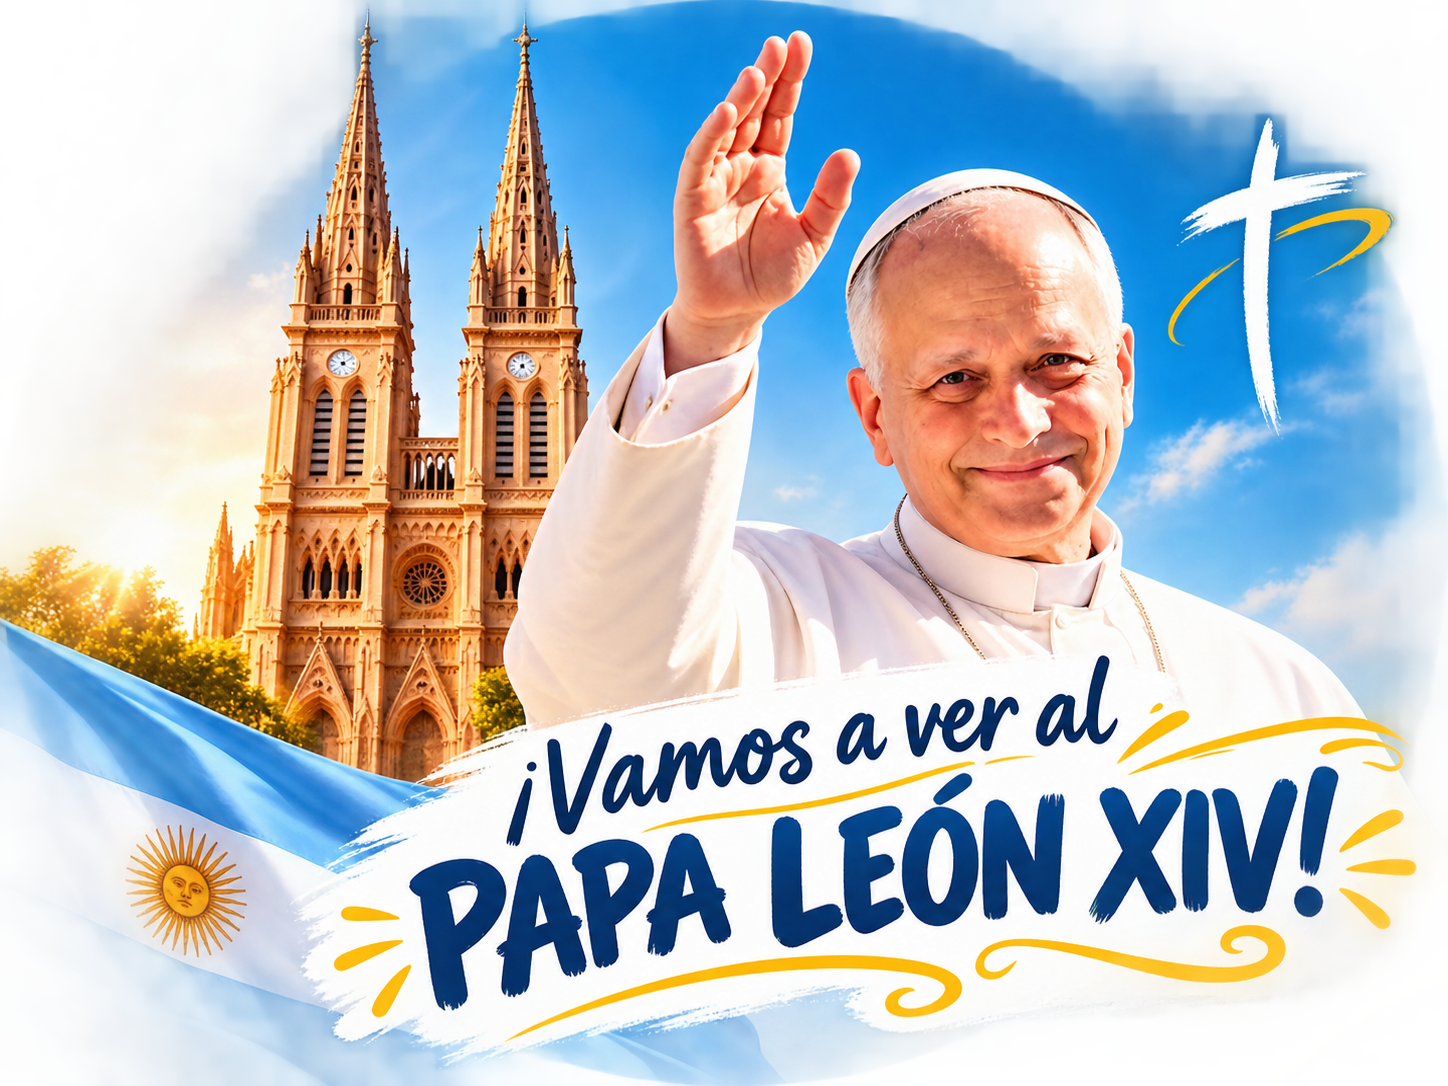
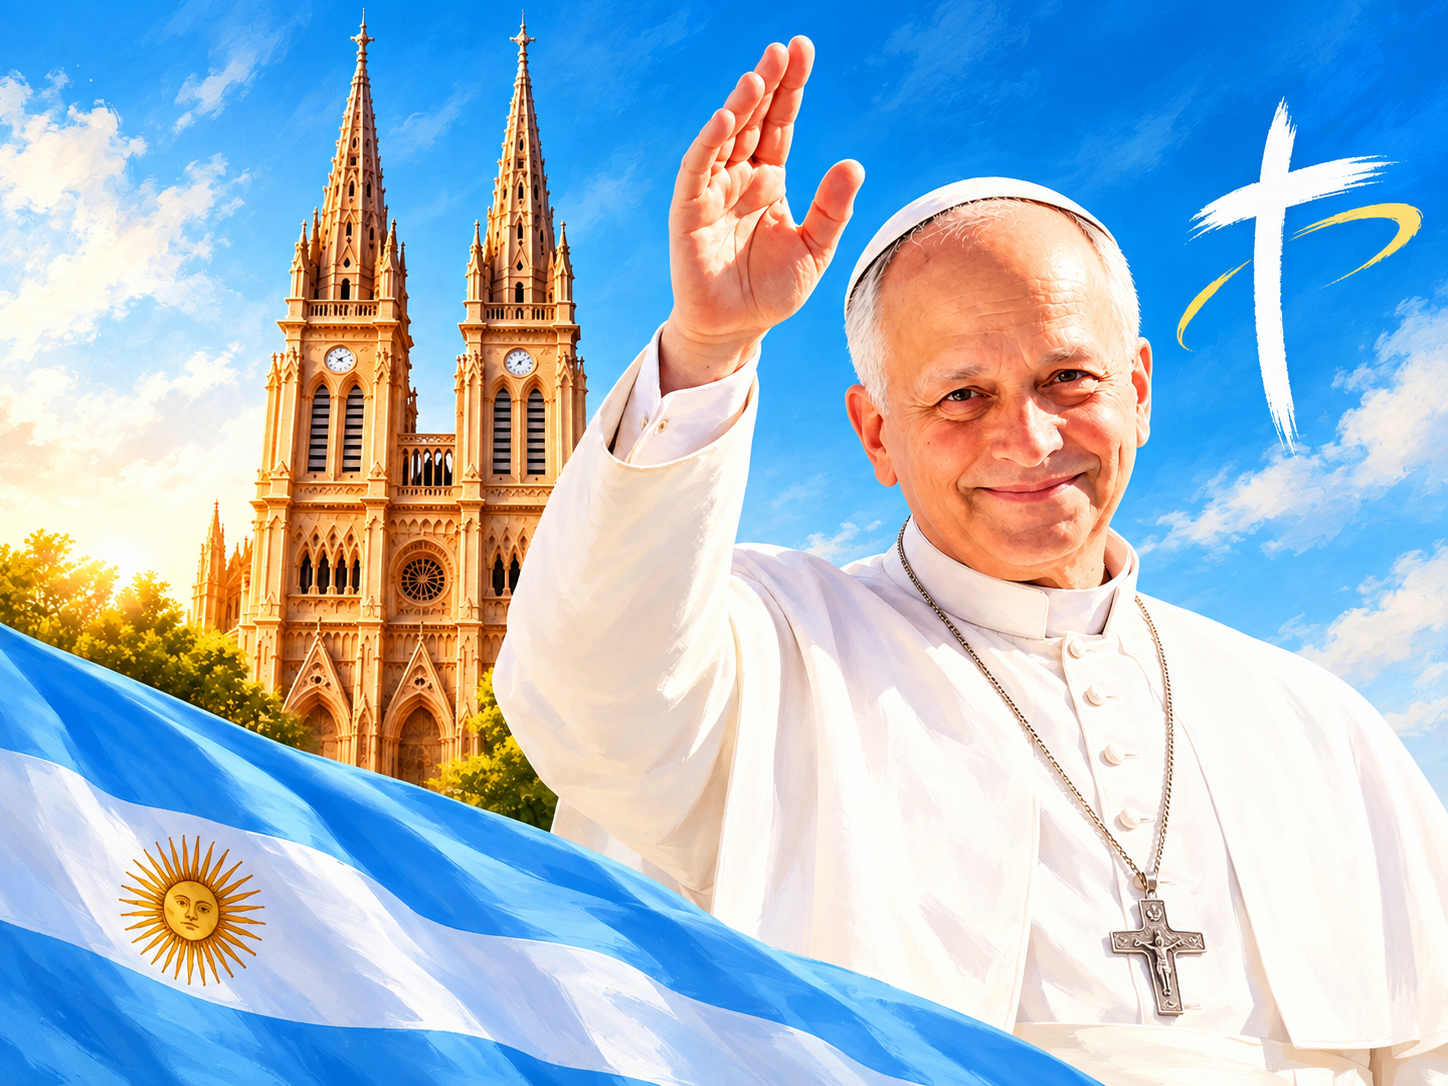
papa

diff --git a/index.html b/index.html
@@ -997,7 +997,7 @@
 <div id="papa1" style="display:flex;justify-content:center;">
   <pilgrimage-event-card
     
-    main-image="/papa/cover2.png"
+    main-image="/papa/cover.png"
     badge-text="Luján · 11 de noviembre"
     tagline="¡Un encuentro que nos une como Iglesia!"
     title="¡Vivamos juntos este acontecimiento histórico de nuestra fe!"
